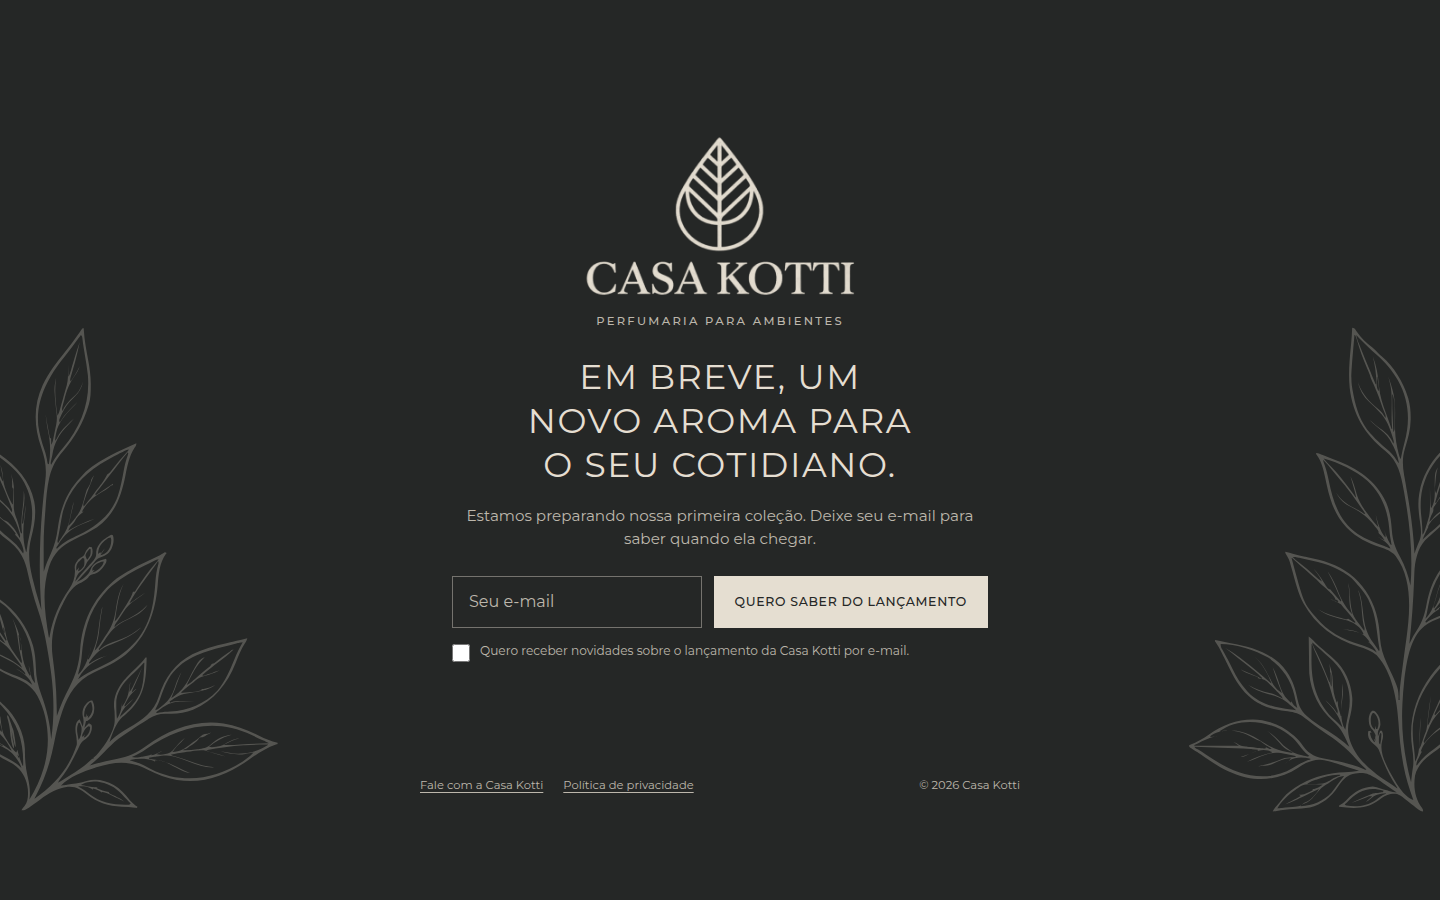
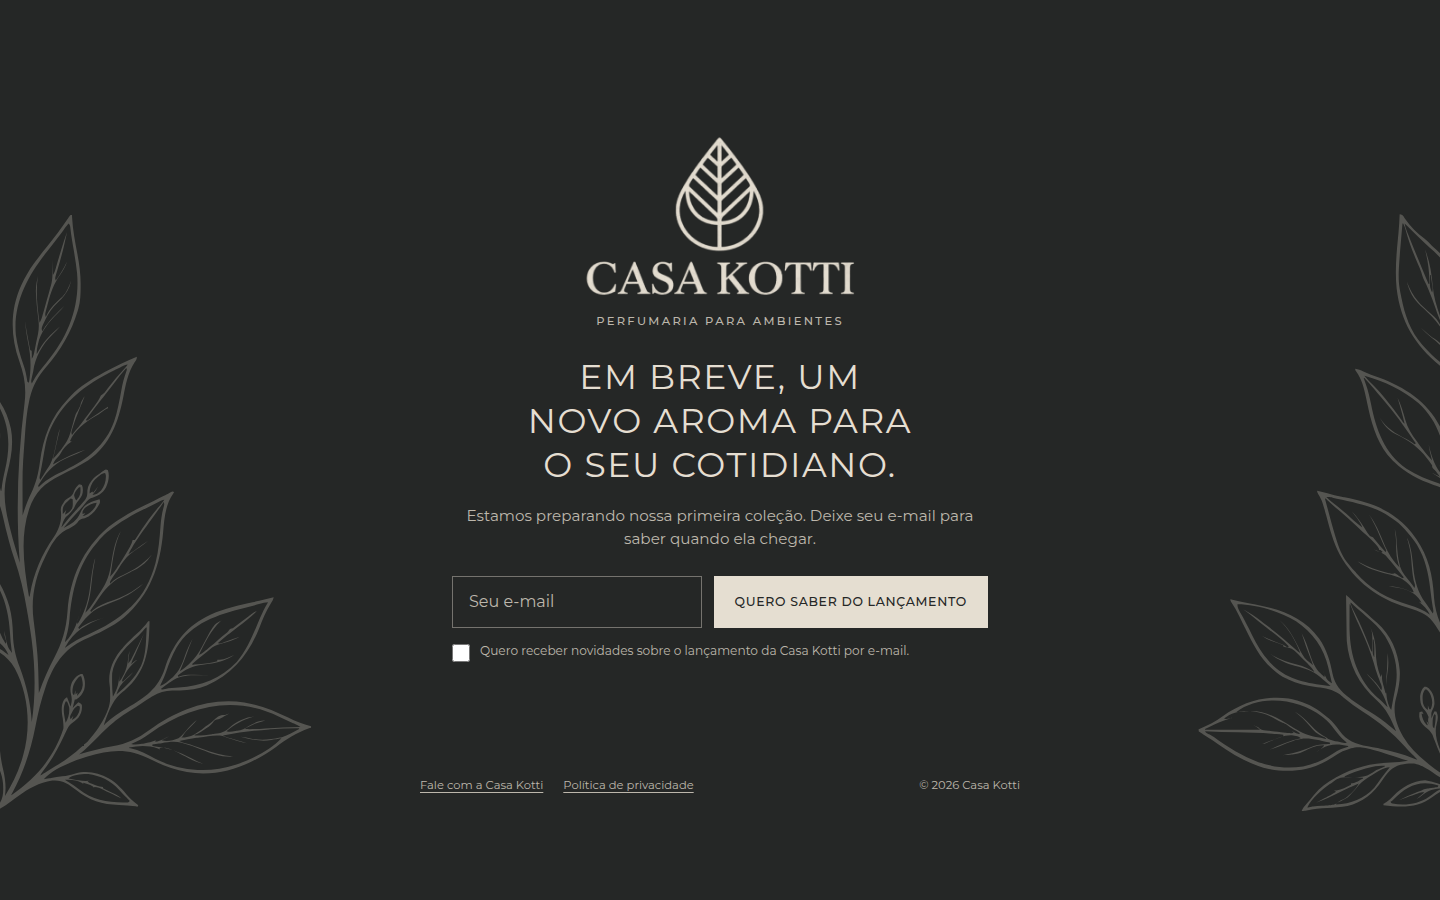
Give desktop its own corner foliage, not the mobile card
On wide screens the branches sit in the viewport corners at a capped width so the layout no longer looks like a phone frame centered on the monitor.

Changed region(s): [[0.0, 0.2489, 0.2188, 0.9022], [0.8125, 0.3733, 1.0, 0.9022], [0.9688, 0.2489, 1.0, 0.3422]]

diff --git a/theme/casa-kotti/assets/css/main.css b/theme/casa-kotti/assets/css/main.css
@@ -402,6 +402,27 @@ input:focus-visible {
 	.ck-brand-logo {
 		width: min(34vw, 280px);
 	}
+
+	.ck-foliage {
+		top: 30%;
+		bottom: 0;
+		width: min(24vw, 20rem);
+	}
+
+	.ck-foliage--left .ck-foliage__motion {
+		translate: -20% 0;
+	}
+
+	.ck-foliage--right .ck-foliage__motion {
+		translate: 20% 0;
+	}
+}
+
+@media (min-width: 1200px) {
+	.ck-foliage {
+		top: 26%;
+		width: min(22vw, 22rem);
+	}
 }
 
 .has-motion .ck-foliage--left .ck-foliage__motion {

diff --git a/theme/casa-kotti/style.css b/theme/casa-kotti/style.css
@@ -3,7 +3,7 @@ Theme Name: Casa Kotti Pré-lançamento
 Theme URI: https://github.com/
 Author: Casa Kotti
 Description: Tema leve para a página de pré-lançamento da Casa Kotti.
-Version: 1.5.1
+Version: 1.5.2
 Requires at least: 6.2
 Requires PHP: 7.4
 License: GNU General Public License v2 or later

diff --git a/theme/casa-kotti/functions.php b/theme/casa-kotti/functions.php
@@ -9,7 +9,7 @@ if ( ! defined( 'ABSPATH' ) ) {
 	exit;
 }
 
-define( 'CASA_KOTTI_THEME_VERSION', '1.5.1' );
+define( 'CASA_KOTTI_THEME_VERSION', '1.5.2' );
 
 function casa_kotti_setup() {
 	add_theme_support( 'title-tag' );

diff --git a/VALIDATION.md b/VALIDATION.md
@@ -4,7 +4,7 @@ Data: 15 de setembro de 2026.
 
 ## Composição SVG (tema 1.5.1)
 
-Camada `.ck-foliage-layer` com `inset: 0` no `.ck-page` (`min-height: 100svh`). Ramos com altura 60% do contêiner, escala uniforme, excesso lateral recortado, opacidade 0,25. Sem quadro 2:3.
+No desktop os ramos ficam nos cantos da viewport larga (`24vw`, no máximo `20rem`), não num cartão 2:3 central.
 
 ## Função (já exercitada nesta entrega)
 
